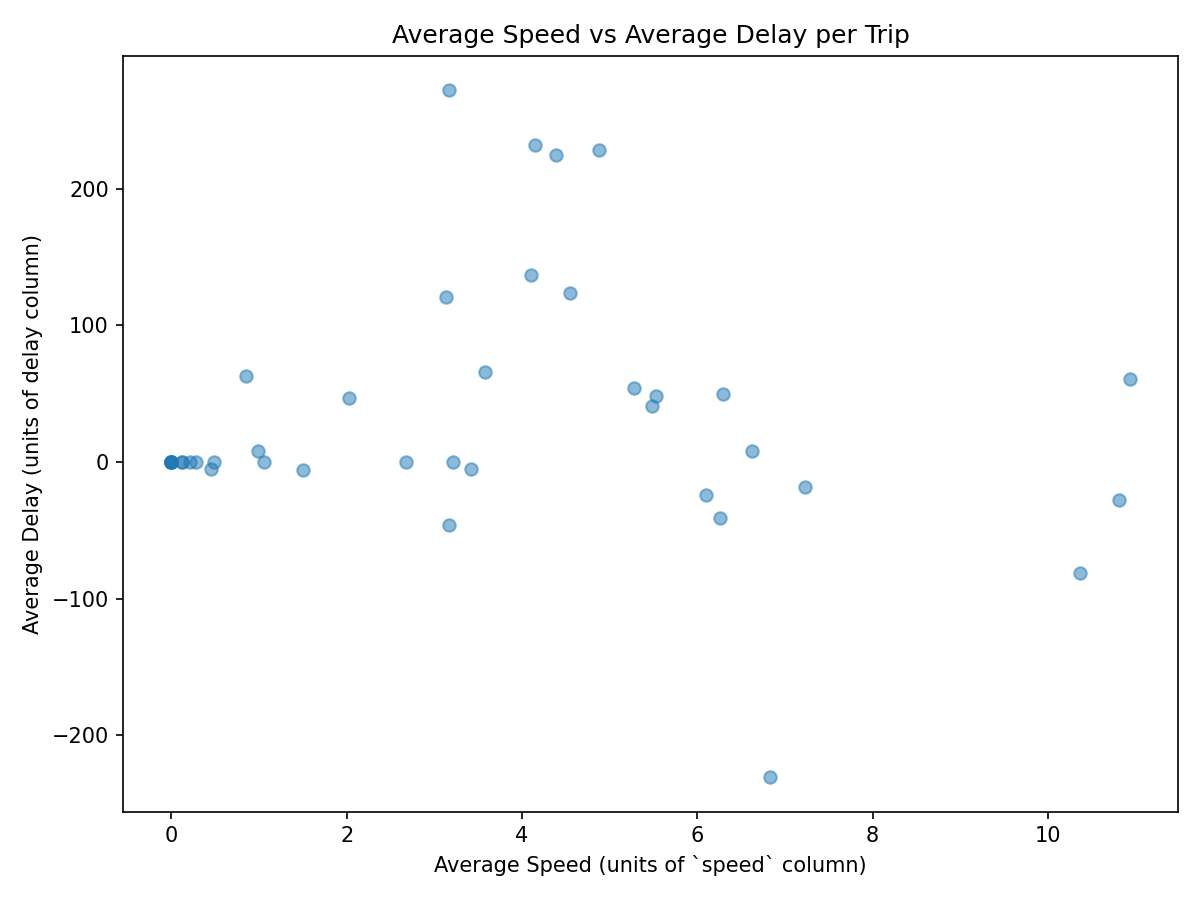
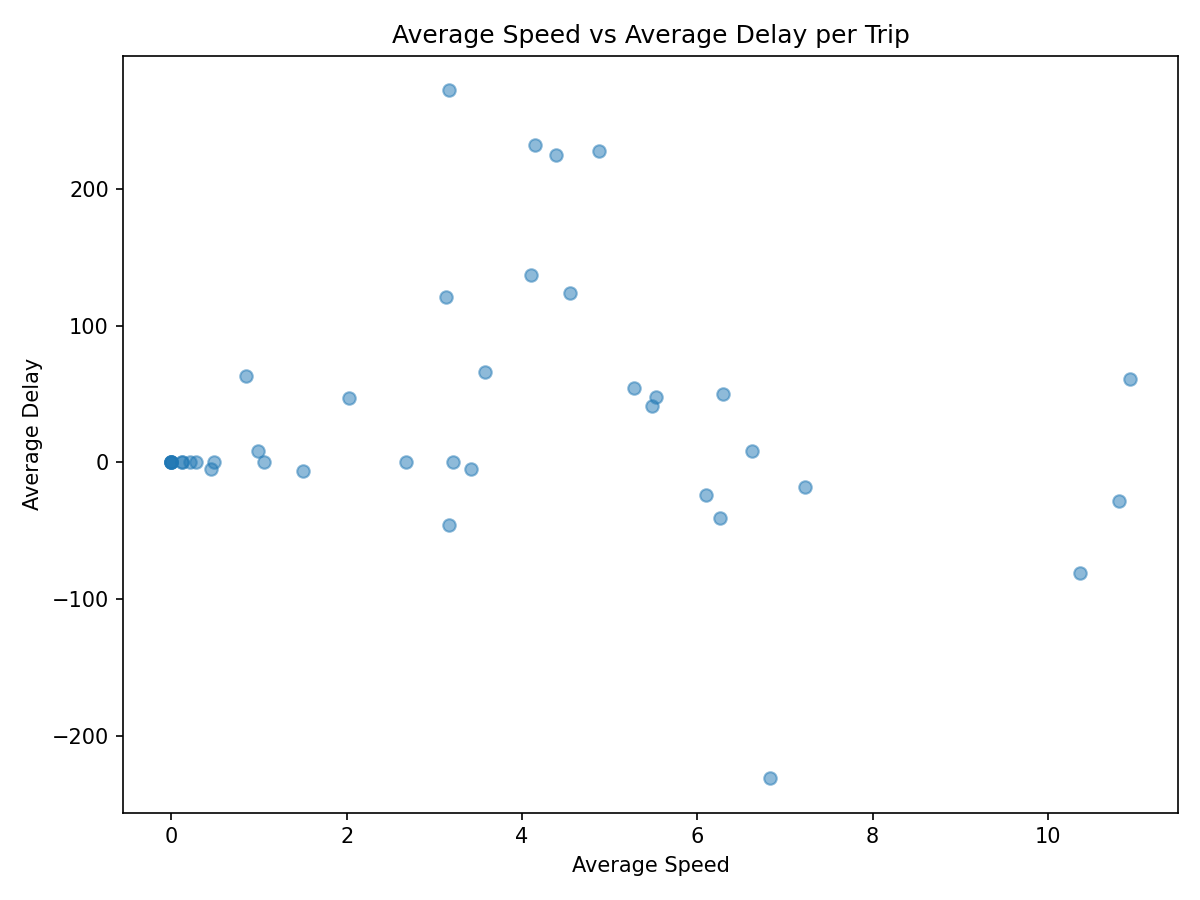
changed analysis.py and gitignore

diff --git a/analysis.py b/analysis.py
@@ -2,12 +2,19 @@
 
 from __future__ import annotations
 import argparse
+import logging
+import re
 from pathlib import Path
 
 import duckdb
 import pandas as pd
 import matplotlib.pyplot as plt
 
+
+logging.basicConfig(
+    level=logging.INFO,
+    format="[%(levelname)s] %(message)s",
+)
 
 DEFAULT_DB_PATH = "metro.duckdb"
 
@@ -23,6 +30,7 @@ COL_TIMESTAMP = "timestamp"
 
 COL_ROUTE_ID_ROUTES = "route_id"
 COL_ROUTE_NAME = "route_long_name"
+COL_DELAY = "delay"  # from updates
 
 
 def parse_args() -> argparse.Namespace:
@@ -30,6 +38,11 @@ def parse_args() -> argparse.Namespace:
     parser.add_argument("--db", type=str, default=DEFAULT_DB_PATH)
     parser.add_argument("--out", type=str, default="plots")
     parser.add_argument("--top-n", type=int, default=10)
+
+    # Optional CLI overrides for route comparison
+    parser.add_argument("--route-a", type=str, help="First route ID to compare (e.g. C40)")
+    parser.add_argument("--route-b", type=str, help="Second route ID to compare (e.g. A58)")
+
     return parser.parse_args()
 
 
@@ -37,19 +50,25 @@ def connect_db(db_path: str) -> duckdb.DuckDBPyConnection:
     db_path = Path(db_path)
     if not db_path.exists():
         raise FileNotFoundError(f"DuckDB file not found: {db_path.resolve()}")
+    logging.info(f"Connecting to DuckDB at {db_path.resolve()}")
     return duckdb.connect(str(db_path))
 
 
 def list_tables(con: duckdb.DuckDBPyConnection) -> pd.DataFrame:
     df = con.execute("SHOW TABLES").fetchdf()
-    print(df.to_string(index=False))
+    logging.info("Tables in database:\n%s", df.to_string(index=False))
     return df
 
 
 def load_combined_data(con: duckdb.DuckDBPyConnection) -> pd.DataFrame:
+    """
+    Load positions joined to routes if available.
+    Always returns: ts, route_id, vehicle_id, lat, lon, route_name
+    """
     tables = set(con.execute("SHOW TABLES").fetchdf()["name"])
 
     if TABLE_ROUTES in tables:
+        logging.info("Found routes table; joining positions to routes.")
         query = f"""
             SELECT
                 p.{COL_TIMESTAMP} AS ts,
@@ -63,7 +82,7 @@ def load_combined_data(con: duckdb.DuckDBPyConnection) -> pd.DataFrame:
             ON p.{COL_ROUTE_ID} = r.{COL_ROUTE_ID_ROUTES}
         """
     else:
-        print("No 'routes' table found; proceeding without route names.")
+        logging.info("No 'routes' table found; proceeding without route names.")
         query = f"""
             SELECT
                 p.{COL_TIMESTAMP} AS ts,
@@ -78,6 +97,8 @@ def load_combined_data(con: duckdb.DuckDBPyConnection) -> pd.DataFrame:
     df = con.execute(query).fetchdf()
     df["ts"] = pd.to_datetime(df["ts"], errors="coerce")
     df = df.dropna(subset=["ts"])
+
+    logging.info("Loaded %d position records.", len(df))
     return df
 
 
@@ -91,11 +112,16 @@ def plot_top_routes(df: pd.DataFrame, out_dir: Path, top_n: int) -> None:
     )
 
     if route_counts.empty:
+        logging.warning("No data for top routes plot.")
         return
 
-    route_counts["label"] = route_counts.apply(
-        lambda row: f"{row['route_id']}\n{row['route_name'] or ''}".strip(), axis=1
-    )
+    def make_label(row):
+        name = row["route_name"]
+        if pd.isna(name):
+            name = ""
+        return f"{row['route_id']}\n{name}".strip()
+
+    route_counts["label"] = route_counts.apply(make_label, axis=1)
 
     plt.figure(figsize=(10, 6))
     plt.bar(route_counts["label"], route_counts["count"])
@@ -108,64 +134,22 @@ def plot_top_routes(df: pd.DataFrame, out_dir: Path, top_n: int) -> None:
     out_path = out_dir / "top_routes_bar.png"
     plt.savefig(out_path, dpi=150)
     plt.close()
+    logging.info("Saved top routes bar chart to %s", out_path)
 
-
-def plot_activity_over_time(df: pd.DataFrame, out_dir: Path) -> None:
-    if df.empty:
-        return
-
-    df_sorted = df.sort_values("ts")
-    df_sorted = df_sorted.set_index("ts")
-
-    df_resampled = (
-        df_sorted
-        .groupby("vehicle_id")
-        .resample("1min")
-        .size()
-        .reset_index(name="dummy")
-    )
-
-    active_per_min = (
-        df_resampled.groupby("ts")["vehicle_id"]
-        .nunique()
-        .reset_index(name="active_vehicles")
-    )
-
-    if active_per_min.empty:
-        return
-
-    # Convert to numpy arrays to avoid pandas 2.x multi-d indexing issue
-    x = active_per_min["ts"].to_numpy()
-    y = active_per_min["active_vehicles"].to_numpy()
-
-    plt.figure(figsize=(12, 5))
-    plt.plot(x, y)
-    plt.xlabel("Time")
-    plt.ylabel("Active Vehicles")
-    plt.title("Active Buses Over Time")
-    plt.tight_layout()
-
-    out_path = out_dir / "activity_over_time.png"
-    plt.savefig(out_path, dpi=150)
-    plt.close()
 
 def plot_heatmap(df: pd.DataFrame, out_dir: Path) -> None:
-    # Ensure lat/lon columns exist
+    # Use the aliased lat/lon columns from load_combined_data
     if "lat" not in df.columns or "lon" not in df.columns:
-        print("Cannot plot heatmap: expected 'lat' and 'lon' columns.")
+        logging.warning("Cannot plot heatmap: expected 'lat' and 'lon' columns.")
         return
 
-    # Drop rows with missing coordinates
     df_coords = df.dropna(subset=["lat", "lon"])
-
     if df_coords.empty:
-        print("No lat/lon data for heatmap.")
+        logging.warning("No lat/lon data for heatmap.")
         return
 
     plt.figure(figsize=(8, 8))
-
-    # 2D density using hexbin (no extra deps)
-    plt.hexbin(
+    hb = plt.hexbin(
         df_coords["lon"],
         df_coords["lat"],
         gridsize=60,
@@ -174,43 +158,22 @@ def plot_heatmap(df: pd.DataFrame, out_dir: Path) -> None:
     plt.xlabel("Longitude")
     plt.ylabel("Latitude")
     plt.title("Vehicle Position Density Heatmap")
-    cb = plt.colorbar()
+    cb = plt.colorbar(hb)
     cb.set_label("Log(Count)")
 
     plt.tight_layout()
     out_path = out_dir / "heatmap.png"
     plt.savefig(out_path, dpi=200)
     plt.close()
-    print(f"Saved heatmap to {out_path}")
+    logging.info("Saved heatmap to %s", out_path)
 
-def detect_delay_column(con: duckdb.DuckDBPyConnection) -> str | None:
-    """
-    Try to find a plausible delay column in the `updates` table by name.
-    Returns the column name or None if not found.
-    """
-    try:
-        df_desc = con.execute(f"DESCRIBE {TABLE_UPDATES}").fetchdf()
-    except duckdb.Error as e:
-        print(f"Could not DESCRIBE {TABLE_UPDATES}: {e}")
-        return None
-
-    # Map lowercase -> original name
-    col_map = {name.lower(): name for name in df_desc["column_name"]}
-    candidates = ["delay", "arrival_delay", "departure_delay", "schedule_delay"]
-
-    for cand in candidates:
-        if cand in col_map:
-            return col_map[cand]
-
-    print("No suitable delay column found in 'updates' table.")
-    return None
 
 def load_speed_delay(con: duckdb.DuckDBPyConnection) -> pd.DataFrame:
     """
     Build a DataFrame with avg_speed and avg_delay per trip_id
     using data from positions and updates.
     """
-    # 1) Average speed per trip from positions
+    # Average speed per trip from positions
     q_speed = f"""
         SELECT
             trip_id,
@@ -222,59 +185,111 @@ def load_speed_delay(con: duckdb.DuckDBPyConnection) -> pd.DataFrame:
     df_speed = con.execute(q_speed).fetchdf()
 
     if df_speed.empty:
-        print("No speed data found in positions; cannot build speed/delay scatter.")
+        logging.warning("No speed data found in positions; cannot build speed/delay scatter.")
         return pd.DataFrame()
 
-    # 2) Detect delay column in updates
-    delay_col = detect_delay_column(con)
-    if delay_col is None:
+    # Check that updates exists
+    tables = set(con.execute("SHOW TABLES").fetchdf()["name"])
+    if TABLE_UPDATES not in tables:
+        logging.warning("No 'updates' table found; cannot compute delay.")
         return pd.DataFrame()
 
-    # 3) Average delay per trip from updates
+    # Average delay per trip from updates
     q_delay = f"""
         SELECT
             trip_id,
-            AVG({delay_col}) AS avg_delay
+            AVG({COL_DELAY}) AS avg_delay
         FROM {TABLE_UPDATES}
-        WHERE {delay_col} IS NOT NULL
+        WHERE {COL_DELAY} IS NOT NULL
         GROUP BY trip_id
     """
     df_delay = con.execute(q_delay).fetchdf()
 
     if df_delay.empty:
-        print("No delay data found in updates; cannot build speed/delay scatter.")
+        logging.warning("No delay data found in updates; cannot build speed/delay scatter.")
         return pd.DataFrame()
 
-    # 4) Inner join on trip_id: only trips that have both speed and delay
     df = pd.merge(df_speed, df_delay, on="trip_id", how="inner")
-
-    # Drop any weird rows
     df = df.dropna(subset=["avg_speed", "avg_delay"])
 
+    logging.info("Built speed/delay dataset with %d trips.", len(df))
     return df
 
+
 def plot_speed_vs_delay(con: duckdb.DuckDBPyConnection, out_dir: Path) -> None:
-    """
-    Scatter plot of average speed vs average delay per trip.
-    Uses both positions (speed) and updates (delay).
-    """
     df = load_speed_delay(con)
 
     if df.empty:
-        print("No combined speed/delay data to plot.")
+        logging.warning("No combined speed/delay data to plot.")
         return
 
     plt.figure(figsize=(8, 6))
     plt.scatter(df["avg_speed"], df["avg_delay"], alpha=0.5)
-    plt.xlabel("Average Speed (units of `speed` column)")
-    plt.ylabel("Average Delay (units of delay column)")
+    plt.xlabel("Average Speed")
+    plt.ylabel("Average Delay")
     plt.title("Average Speed vs Average Delay per Trip")
     plt.tight_layout()
 
     out_path = out_dir / "speed_vs_delay.png"
     plt.savefig(out_path, dpi=150)
     plt.close()
-    print(f"Saved speed vs delay scatter to {out_path}")
+    logging.info("Saved speed vs delay scatter to %s", out_path)
+
+def sanitize_filename_part(s: str) -> str:
+    return re.sub(r"[^A-Za-z0-9]+", "_", s).strip("_") or "route"
+
+
+def plot_avg_delay_for_routes(
+    con: duckdb.DuckDBPyConnection,
+    out_dir: Path,
+    route_a: str,
+    route_b: str,
+) -> None:
+    """
+    Compare two routes (by route_id) using average delay from the updates table.
+    Produces a bar chart with one bar per route.
+    """
+    route_a = route_a.strip()
+    route_b = route_b.strip()
+    if not route_a or not route_b:
+        logging.warning("Empty route IDs provided; skipping route comparison.")
+        return
+
+    tables = set(con.execute("SHOW TABLES").fetchdf()["name"])
+    if TABLE_UPDATES not in tables:
+        logging.warning("No 'updates' table found; cannot compute route delays.")
+        return
+
+    logging.info("Computing average delay for routes %s and %s.", route_a, route_b)
+
+    q = f"""
+        SELECT
+            route_id,
+            AVG({COL_DELAY}) AS avg_delay
+        FROM {TABLE_UPDATES}
+        WHERE {COL_DELAY} IS NOT NULL
+          AND route_id IN (?, ?)
+        GROUP BY route_id
+    """
+    df = con.execute(q, [route_a, route_b]).fetchdf()
+
+    if df.empty:
+        logging.warning("No delay data found for routes %s and %s.", route_a, route_b)
+        return
+
+    plt.figure(figsize=(6, 5))
+    plt.bar(df["route_id"], df["avg_delay"])
+    plt.xlabel("Route ID")
+    plt.ylabel("Average Delay")
+    plt.title(f"Average Delay: {route_a} vs {route_b}")
+    plt.tight_layout()
+
+    part_a = sanitize_filename_part(route_a)
+    part_b = sanitize_filename_part(route_b)
+    out_path = out_dir / f"avg_delay_{part_a}_vs_{part_b}.png"
+    plt.savefig(out_path, dpi=150)
+    plt.close()
+    logging.info("Saved average delay comparison for routes to %s", out_path)
 
 
 def main() -> None:
@@ -287,15 +302,40 @@ def main() -> None:
     df = load_combined_data(con)
 
     if df.empty:
-        print("No data to plot.")
+        logging.warning("No data to plot from positions.")
         return
 
+    # 1) Top routes (by observations)
     plot_top_routes(df, out_dir, args.top_n)
-    plot_activity_over_time(df, out_dir)
+
+    # 2) Spatial heatmap
     plot_heatmap(df, out_dir)
+
+    # 3) Speed vs delay scatter (per trip), using both tables
     plot_speed_vs_delay(con, out_dir)
 
-    print("Analysis complete.")
+    # 4) Route vs route average delay comparison (interactive-ish)
+    route_a = args.route_a
+    route_b = args.route_b
+
+    # If not provided via CLI, ask user
+    if not route_a or not route_b:
+        try:
+            logging.info("No route IDs provided via CLI; prompting for input.")
+            if not route_a:
+                route_a = input("Enter first route ID (e.g., C40): ").strip()
+            if not route_b:
+                route_b = input("Enter second route ID (e.g., A58): ").strip()
+        except EOFError:
+            logging.warning("Input not available; skipping route comparison.")
+            route_a = route_b = None
+
+    if route_a and route_b:
+        plot_avg_delay_for_routes(con, out_dir, route_a, route_b)
+    else:
+        logging.warning("Route IDs missing; skipping route comparison plot.")
+
+    logging.info("Analysis complete.")
 
 
 if __name__ == "__main__":
